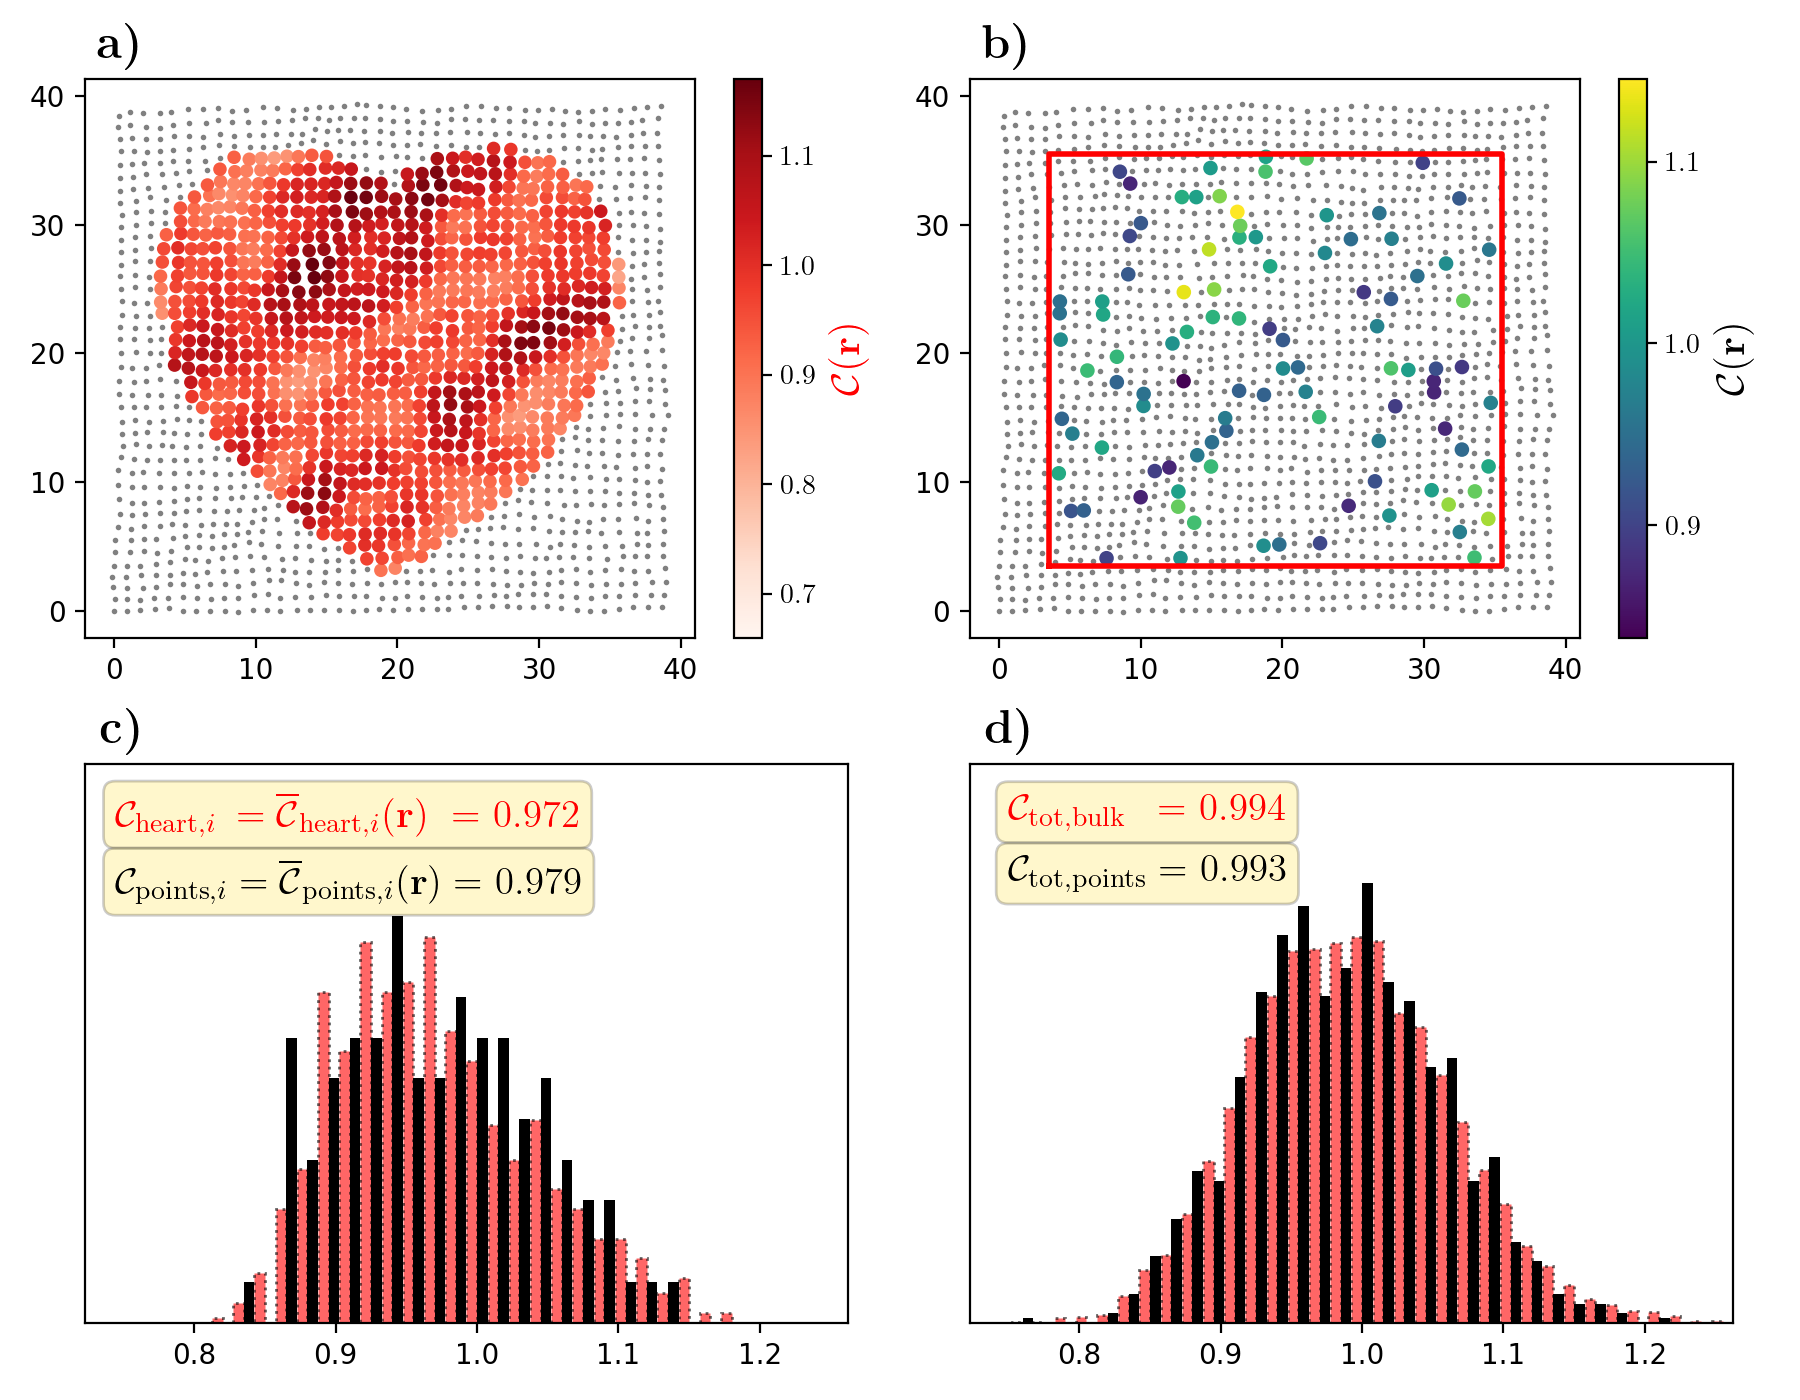
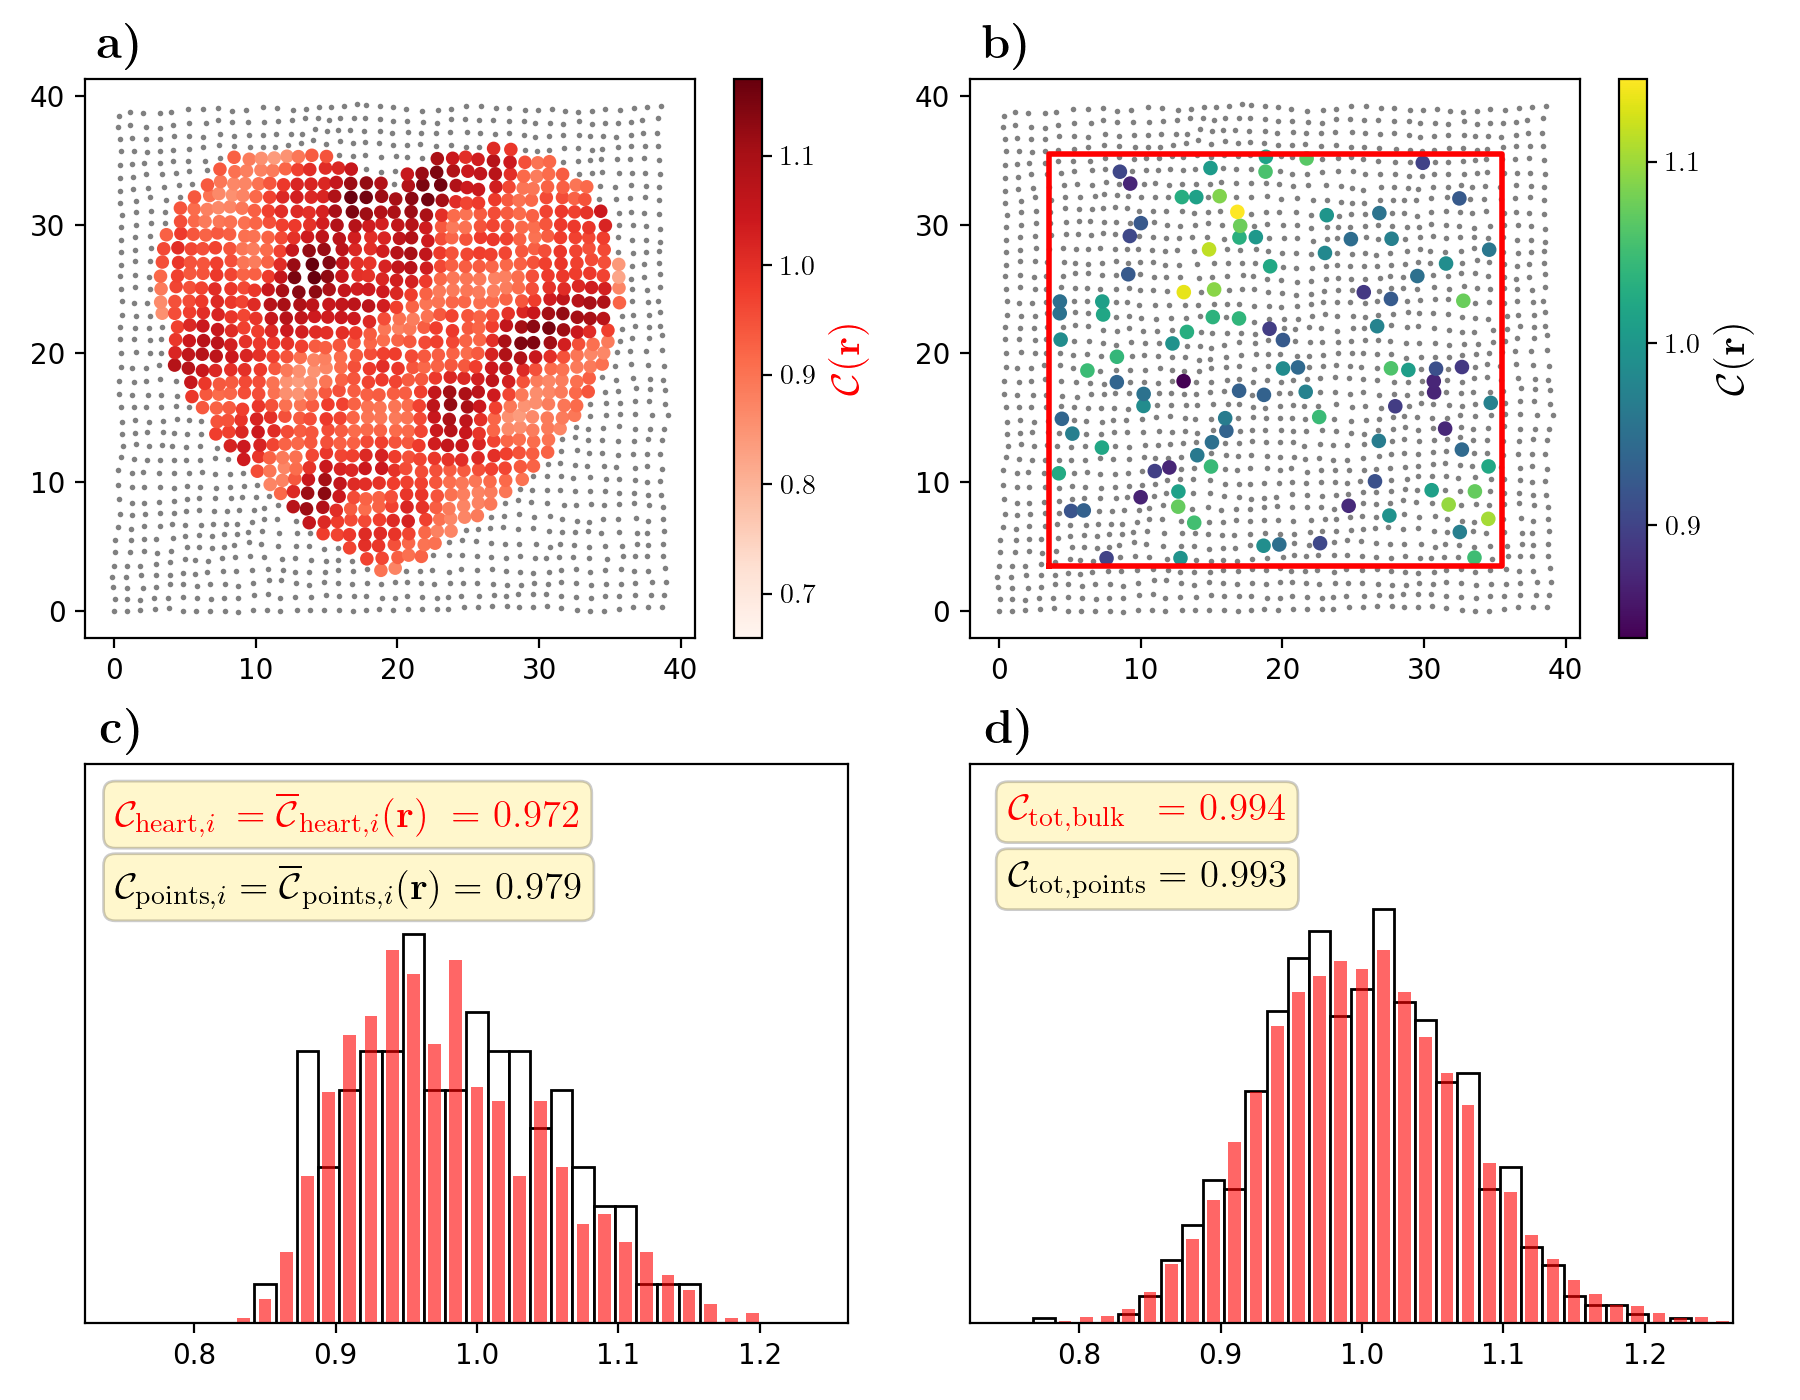
update figure

Changed region(s): [[0.0622, 0.5836, 0.4044, 0.9521], [0.56, 0.5836, 0.9333, 0.9521]]

diff --git a/plot_subDistr.py b/plot_subDistr.py
@@ -110,13 +110,28 @@ bins += [x for i in range(1000) if (x:=round(C_bulk.mean())+acc/2+i*acc) < C_bul
 bins = np.sort(bins)
 bins_c = bins-acc/2
 
-# Histograms
-# hb, *_   = ax[1,0].hist(C_bulk,      bins,   width=0.5*acc, density=True, color='k', alpha=1.0, ls='solid')
-hH, *_     = ax[1,0].hist(C_heart,     bins,   width=0.5*acc, density=True, color='r', alpha=0.6, ls='dotted', ec='k')
-#
-hC, *_     = ax[1,0].hist(C_c,         bins_c, width=0.5*acc, density=True, color='k', alpha=1.0, ls='solid')
-hb_tot, *_ = ax[1,1].hist(hist_C_bulk, bins,   width=0.5*acc, density=True, color='r', alpha=0.6, ls='dotted', ec='k')
-hC_tot, *_ = ax[1,1].hist(hist_C_c,    bins_c, width=0.5*acc, density=True, color='k', alpha=1.0, ls='solid')
+# # Histograms
+# # hb, *_   = ax[1,0].hist(C_bulk,      bins,   width=0.5*acc, density=True, color='k', alpha=1.0, ls='solid')
+# hH, *_     = ax[1,0].hist(C_heart,     bins,   width=0.5*acc, density=True, color='r', alpha=0.6, ls='dotted', ec='k')
+# hC, *_     = ax[1,0].hist(C_c,         bins_c, width=0.5*acc, density=True, color='k', alpha=1.0, ls='solid')
+# hb_tot, *_ = ax[1,1].hist(hist_C_bulk, bins,   width=0.5*acc, density=True, color='r', alpha=0.6, ls='dotted', ec='k')
+# hC_tot, *_ = ax[1,1].hist(hist_C_c,    bins_c, width=0.5*acc, density=True, color='k', alpha=1.0, ls='solid')
+
+bins_bar = bins-acc/2
+
+# Histograms using plt.bar()
+hi_b, _ = np.histogram(C_heart, bins_bar)
+hi_C, _ = np.histogram(C_c, bins_bar)
+hi_b_tot, _ = np.histogram(hist_C_bulk, bins_bar)
+hi_C_tot, _ = np.histogram(hist_C_c, bins_bar)
+
+norma     = C_heart.size / C_c.size
+norma_tot = hist_C_bulk.size / hist_C_c.size
+
+_ = ax[1,0].bar(bins_bar[1:], hi_C*norma,         align='center', width=1.0*acc, color='white', ec='k')
+_ = ax[1,0].bar(bins_bar[1:], hi_b,               align='center', width=0.6*acc, color='red', alpha=0.6)
+_ = ax[1,1].bar(bins_bar[1:], hi_C_tot*norma_tot, align='center', width=1.0*acc, color='white', ec='k')
+_ = ax[1,1].bar(bins_bar[1:], hi_b_tot,           align='center', width=0.6*acc, color='red', alpha=0.6)
 
 # Text boxes
 # str_Cb   = r"$\mathcal{C}_{\mathrm{bulk},i}  \hspace{0.3cm}=\overline{\mathcal C}_{\mathrm{bulk},i}   (\textbf{r})\hspace{0.24cm}=$ "+f"{C_bulk.mean():.3f}"
@@ -127,16 +142,18 @@ str_Cc_tot = r"$\mathcal{C}_{\mathrm{tot,points}} =$ "+f"{hist_C_c.mean():.3f}"
 props = dict(boxstyle='round', facecolor='gold', alpha=0.2)
 # ax[1,0].text(0.04, 0.89, str_Cb,   transform=ax[1,0].transAxes, c='k', fontsize=14, bbox=props)
 ax[1,0].text(0.04, 0.89, str_CH,     transform=ax[1,0].transAxes, c='r', fontsize=14, bbox=props)
-ax[1,0].text(0.04, 0.77, str_Cc,     transform=ax[1,0].transAxes, c='k', fontsize=14, bbox=props)
+ax[1,0].text(0.04, 0.76, str_Cc,     transform=ax[1,0].transAxes, c='k', fontsize=14, bbox=props)
 ax[1,1].text(0.05, 0.90, str_Cb_tot, transform=ax[1,1].transAxes, c='r', fontsize=14, bbox=props)
-ax[1,1].text(0.05, 0.79, str_Cc_tot, transform=ax[1,1].transAxes, c='k', fontsize=14, bbox=props)
+ax[1,1].text(0.05, 0.78, str_Cc_tot, transform=ax[1,1].transAxes, c='k', fontsize=14, bbox=props)
 
 # Limits
 ax[1,0].set_xlim([bins.min(), bins.max()])
 ax[1,1].set_xlim([bins.min(), bins.max()])
 # ax[1,0].set_ylim([0, 1.45*hb.max()])
-ax[1,0].set_ylim([0, 1.45*hH.max()])
-ax[1,1].set_ylim([0, 1.45*hb_tot.max()])
+# ax[1,0].set_ylim([0, 1.45*hH.max()])
+# ax[1,1].set_ylim([0, 1.45*hb_tot.max()])
+ax[1,0].set_ylim([0, 1.5*hi_b.max()])
+ax[1,1].set_ylim([0, 1.5*hi_b_tot.max()])
 
 # Ticks
 ax[0,0].set_yticks([10*y for y in range(5)])
@@ -151,7 +168,7 @@ _ = ax[1,0].text(0.02, 1.1, r'\textbf{c)}', transform=ax[1,0].transAxes, fontsiz
 _ = ax[1,1].text(0.02, 1.1, r'\textbf{d)}', transform=ax[1,1].transAxes, fontsize=17, verticalalignment='top')
 
 # Save figure
-# plt.savefig(f'figures/bulkHeart-vs-points_L{Lx}.pdf', dpi=400)
+# plt.savefig(f'figures/bulkHeart-vs-points_L{Lx}.pdf', dpi=300)
 plt.savefig(f'figures/bulkHeart-vs-points_L{Lx}.png', dpi=200)
 
 plt.show()

diff --git a/README.md b/README.md
@@ -18,8 +18,8 @@ produces and saves the figure **bulkHeart-vs-points_L40.png** here below.
 
 In $\textbf{a)}$, we show the local Chern marker $\mathcal{C}(\mathbf{r})$ calculated ~~for all of the~~— I mean for _most_ of the bulk points, and they show significant fluctuations. In $\textbf{b)}$, we sample the marker at random points within the red boundary which defines the bulk.
 The distributions corresponding to the sample configuration in $\textbf{a)}$ and $\textbf{b)}$ are shown in $\textbf{c)}$. The distributions are not of very high quality, and the few random points certainly do not make up a good final result.
-The average local marker for both the random points (in red) and the bulk points (in black) are decent, but clearly deviate from the true value 1. \
-Now, repeating this process for $N=10$ configurations means we are getting closer to the true distribution of values, and that gives us $\textbf{d)}$, where all calculated values have been included. In black, we this time show all bulk points — not just the heart :) — inside the red borders, and see that the distributions match very well, including predicting almost exactly the same mean value for the local Chern marker. \
+The average local marker for both the random points (in red) and the bulk points (in white) are decent, but clearly deviate from the true value 1. \
+Now, repeating this process for $N=10$ configurations means we are getting closer to the true distribution of values, and that gives us $\textbf{d)}$, where all calculated values have been included. In red, we this time show all bulk points — not just the heart :) — inside the red borders, and see that the distributions match very well, including predicting almost exactly the same mean value for the local Chern marker. \
 This shows that randomly sampling only a small fraction of points within the bulk of the system is an efficient way to calculate the average of the local marker values. This is especially true when scaling up the system size; as long as $N$ is not too small, it is still enough to "sample" the distribution for a given configuration, and repeating this for several configurations gives a good prediction for the Chern number.
 
 
